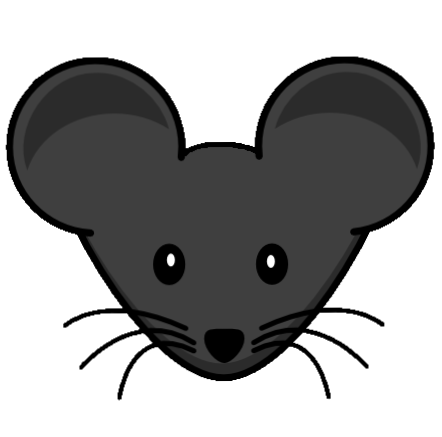
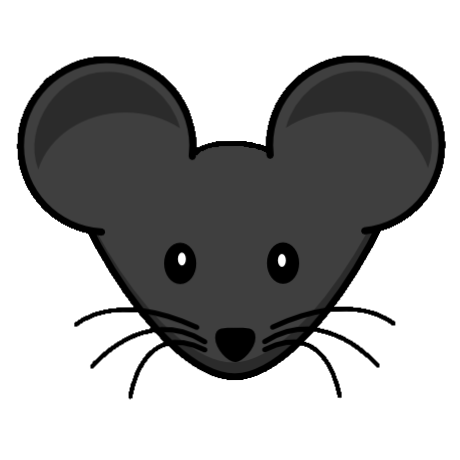
mouse stuff.

diff --git a/scripts/random.js b/scripts/random.js
@@ -1,21 +1,30 @@
 'use strict';
 
+
+const xtrText = "How extreme are you? ";
+
 var xtrValue = 1;
 
+var defaultStatus = "Semi";
+document.getElementById("xtrStatus").innerHTML = xtrText + defaultStatus;
+
 function setExtremeValue(value) {
-    let xtrText = "How extreme are you? ";
+    let button = $('.buttonMouse');
     let xtrStatus = "";
     xtrValue = parseInt(value);
 
     switch (xtrValue) {
         case 0:
             xtrStatus = "Mellow";
+            button.attr("src", "../images/bathmousehead.png");
             break;
         case 1:
             xtrStatus = "Semi";
+            button.attr("src", "../images/cowboymousehead.png");
             break;
         case 2:
             xtrStatus = "Very";
+            button.attr("src", "../images/spacemousehead.png");
             break;
     }
 

diff --git a/views/MainView.html b/views/MainView.html
@@ -10,7 +10,6 @@
     <link rel="stylesheet" href="../styles/hamburger-style.css">
     <script src="../scripts/hamburger.js"></script>
     <script src="../scripts/jquery-2.1.4.js"></script>
-    <script src="../scripts/random.js"></script>
 </head>
 <body>
 <div class="display">
@@ -43,7 +42,7 @@
                    onchange="setExtremeValue(this.value)">
 
             <button type="button" class="btn main-btn" onclick="moveToEvent()">
-                <img class="buttonMouse" src="../images/mousehead.png" alt="">
+                <img class="buttonMouse" src="../images/cowboymousehead.png" alt="">
             </button>
         </div>
 
@@ -119,7 +118,8 @@
         </div>
     </div>
 </nav>
-</div>
+
+<script src="../scripts/random.js"></script>
 
 </body>
 </html>

diff --git a/scripts/loading.js b/scripts/loading.js
@@ -2,7 +2,7 @@
 
 var degrees = 0;
 function rotateAnimation(el, speed) {
-    var elem = document.getElementById(el);
+    let elem = document.getElementById(el);
 
     if (navigator.userAgent.match("Chrome")) {
         elem.style.WebkitTransform = "rotate(" + degrees + "deg)";

diff --git a/styles/style.css b/styles/style.css
@@ -169,7 +169,6 @@ input[type=range]::-webkit-slider-runnable-track {
     cursor: pointer;
     box-shadow: 1px 1px 1px #000000, 0 0 1px #0d0d0d;
     border-radius: 1px;
-    border: 2px solid rgba(0, 1, 1, 0.89);
 }
 
 #scale {
